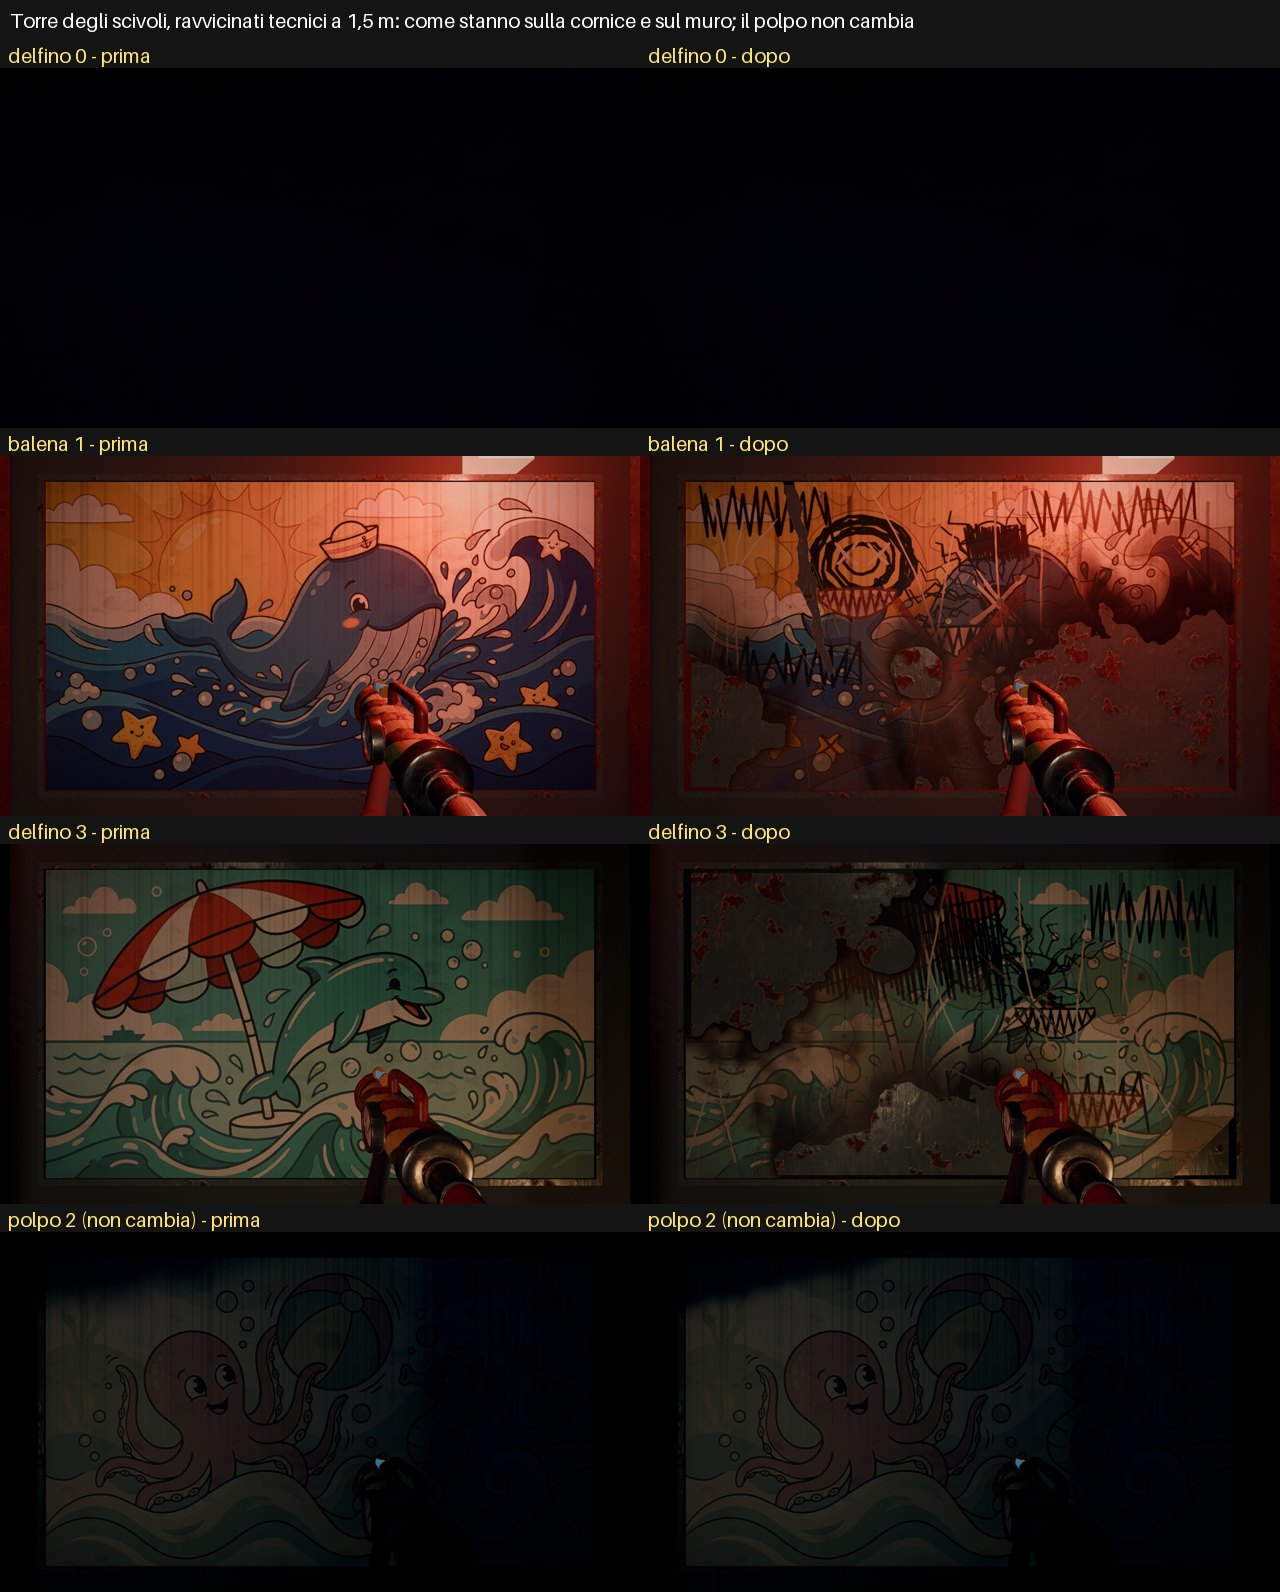
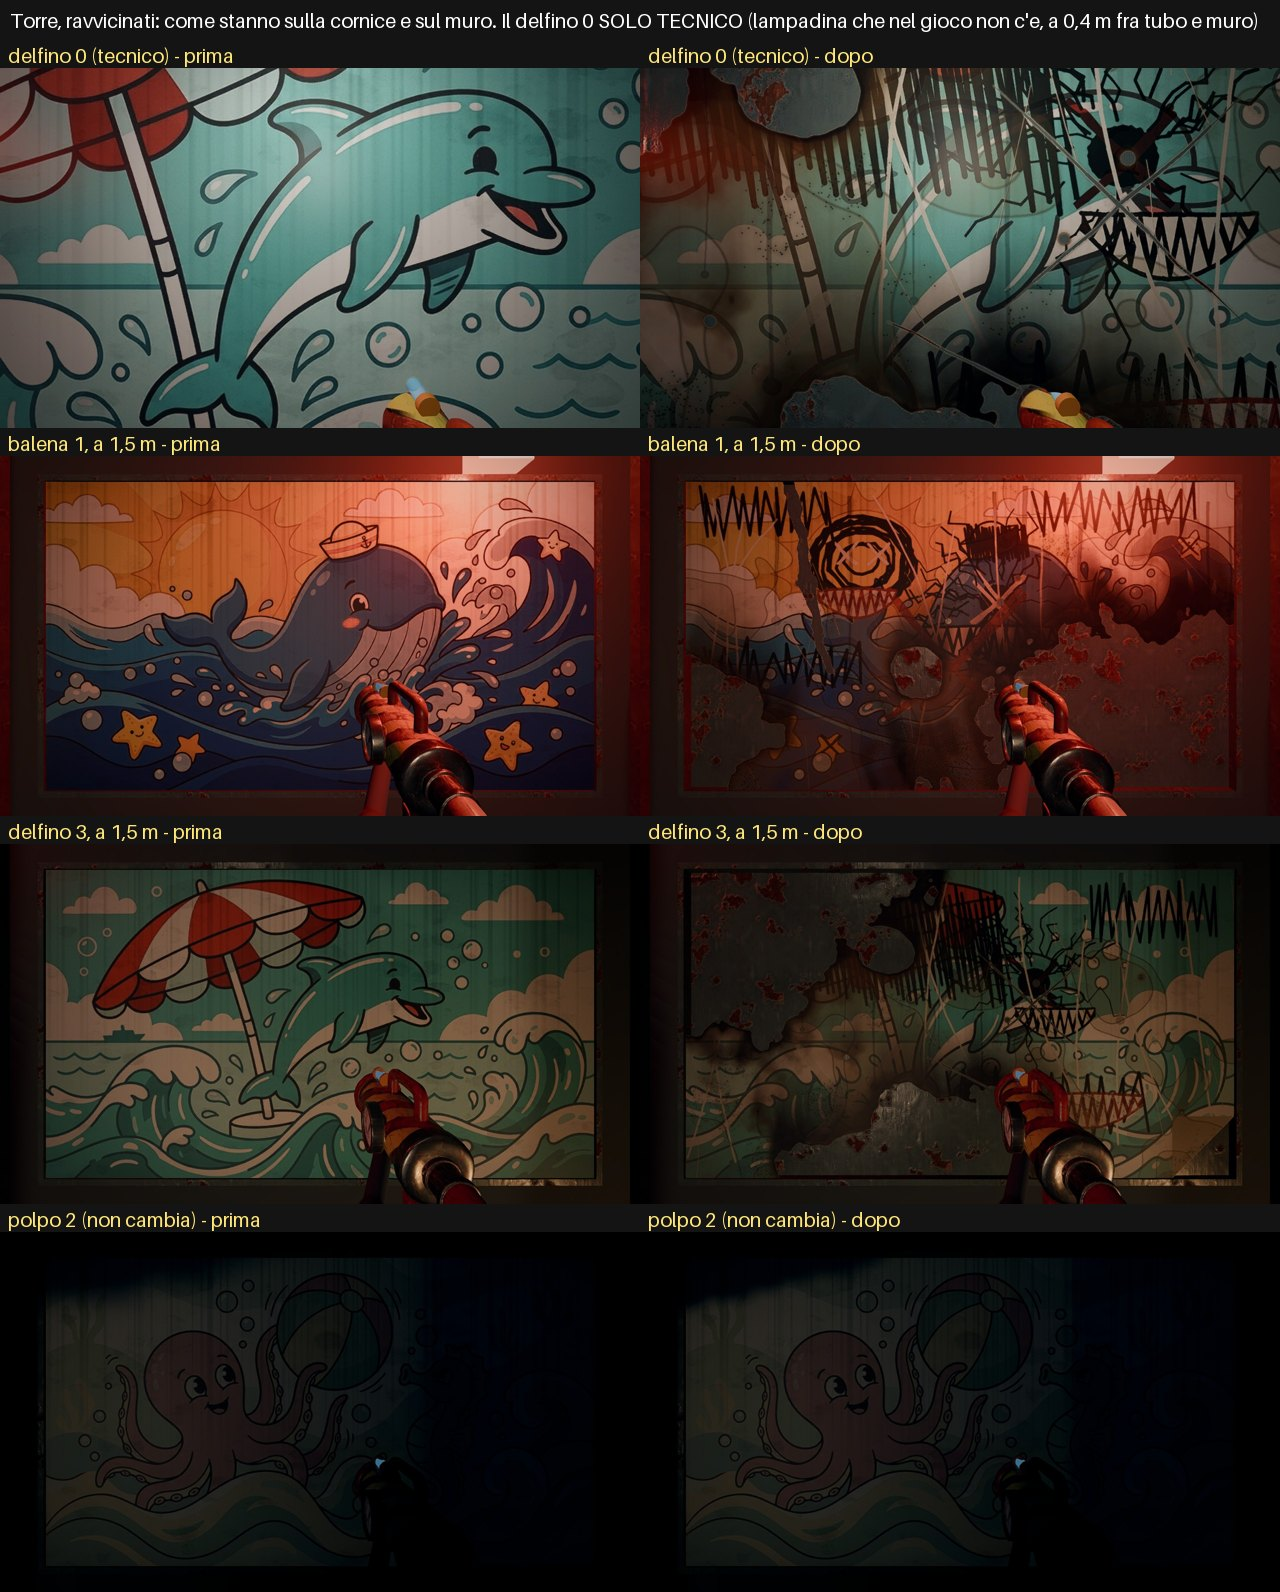
Cartelloni della torre: fogli finali prima e dopo (giro dagli occhi del giocatore, ravvicinati; il delfino 0, al buio dietro un tubo a 0,85 m, con un ravvicinato tecnico a 0,4 m), controlli nel LEGGIMI
Claude-Session: https://claude.ai/code/session_01T7gXU9URJunXdQxrRAzoeN

Changed region(s): [[0.0, 0.0, 1.0, 0.3078]]

diff --git a/docs/tecnico/cartelloni_nord/LEGGIMI.md b/docs/tecnico/cartelloni_nord/LEGGIMI.md
@@ -96,13 +96,15 @@ Il polpo (`torre_cartellone_2`) resta com'è.
 | Foglio | Cosa mostra |
 |---|---|
 | `4_torre_giocatore_prima_dopo.jpg` | dagli occhi del giocatore: dal checkpoint più vicino da cui ogni cartellone si vede, e dal pavimento davanti |
-| `5_torre_da_vicino_prima_dopo.jpg` | ravvicinati a 1,5 m. Il delfino 0 è al buio: il suo ravvicinato è con una lampadina solo tecnica, che nel gioco non c'è |
+| `5_torre_da_vicino_prima_dopo.jpg` | ravvicinati a 1,5 m. Il delfino 0 è al buio e coperto: il suo ravvicinato è a 0,4 m, fra il tubo e il muro, con una lampadina solo tecnica che nel gioco non c'è |
 
 **Cosa si vede**
 - La balena e il delfino 3 si vedono bene dalle pedane e dal fondo, e si leggono bruciati e scarabocchiati.
-- Il delfino 0 sta in alto dietro i tubi degli scivoli e al buio: anche prima dalle pedane si vedeva poco o niente.
+- Il delfino 0 sta in alto dietro i tubi degli scivoli e al buio: anche prima dalle pedane si vedeva poco o niente. Un tubo blu gli passa davanti a 0,85 m dalla carta, misurato coi raggi, senza toccarla.
 - L'appoggio sulla cornice e sul muro non cambia, perché cambia solo la carta.
 
-**Una macchia bianca.** In un primo scatto del delfino 3 c'era una macchia bianca sotto il cartellone. Rifacendo la stessa vista quattro volte non c'era più: era qualcosa di passaggio nella torre, non il cartellone.
+**Una macchia bianca.** In un primo scatto del delfino 3 c'era una macchia bianca sotto il cartellone. Rifacendo la stessa vista quattro volte non c'era più: era qualcosa di passaggio nella torre, non il cartellone. Nel foglio 4 c'è lo scatto rifatto.
+
+**Controlli.** Controllo di posizionamento locale con la torre cambiata: 0 da correggere, 0 casi nuovi (64 già noti). `test_torre`: 95 controlli ok.
 
 **Pipeline.** In costruzione e preparazione la torre ne compila 2+4 in più, quelle del materiale nuovo, durante la preparazione e non mentre si gioca. 0 "ERROR: BUG,".
